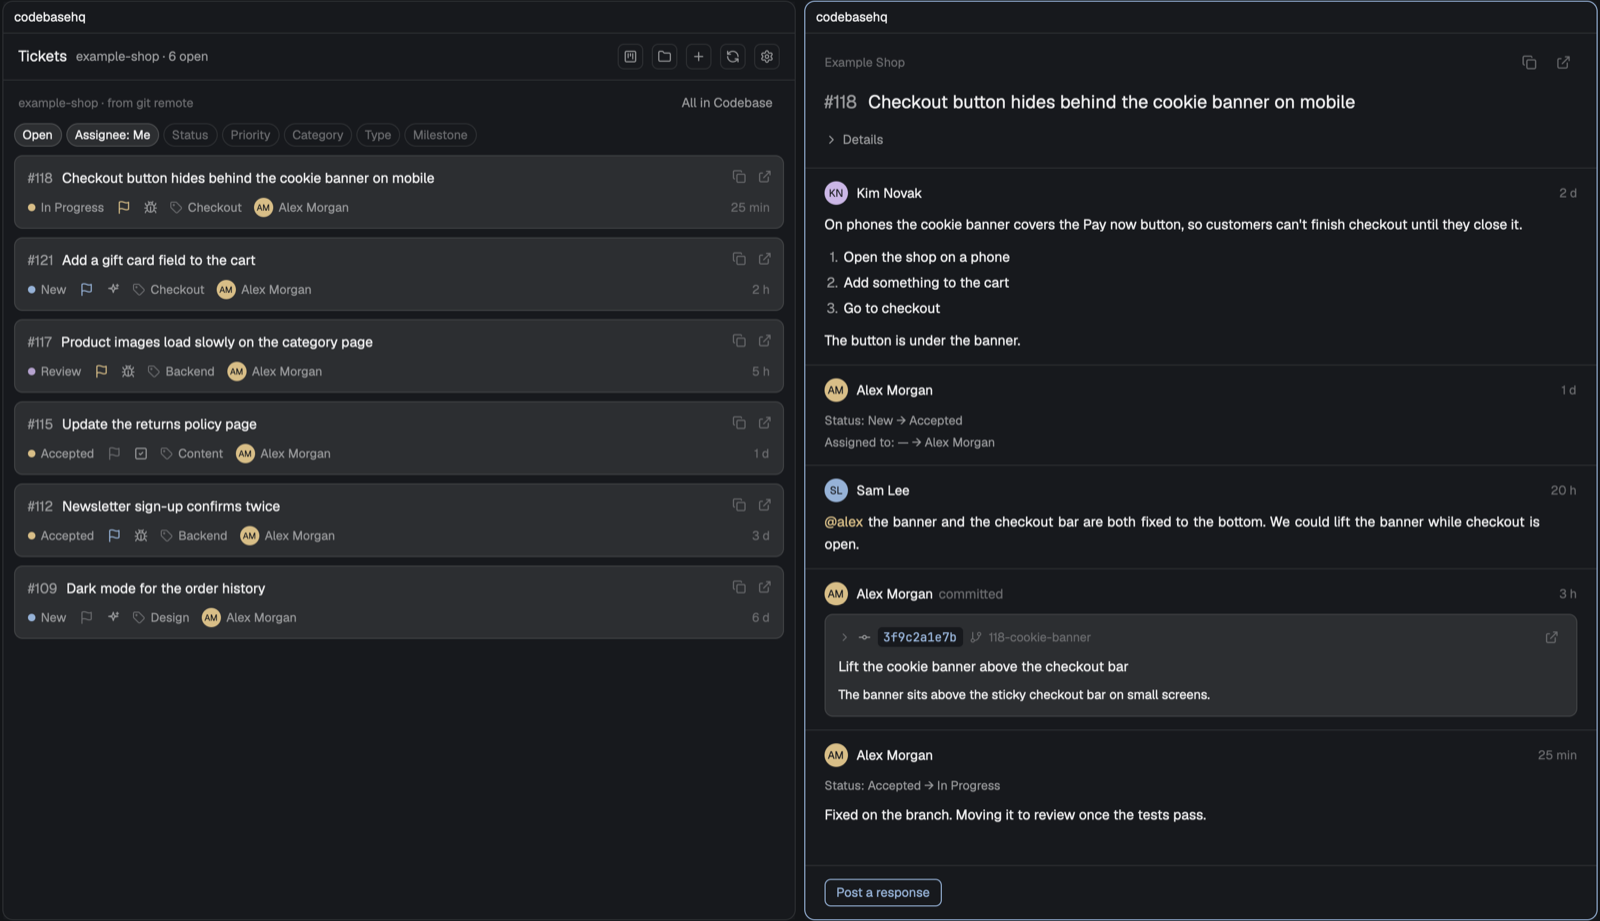
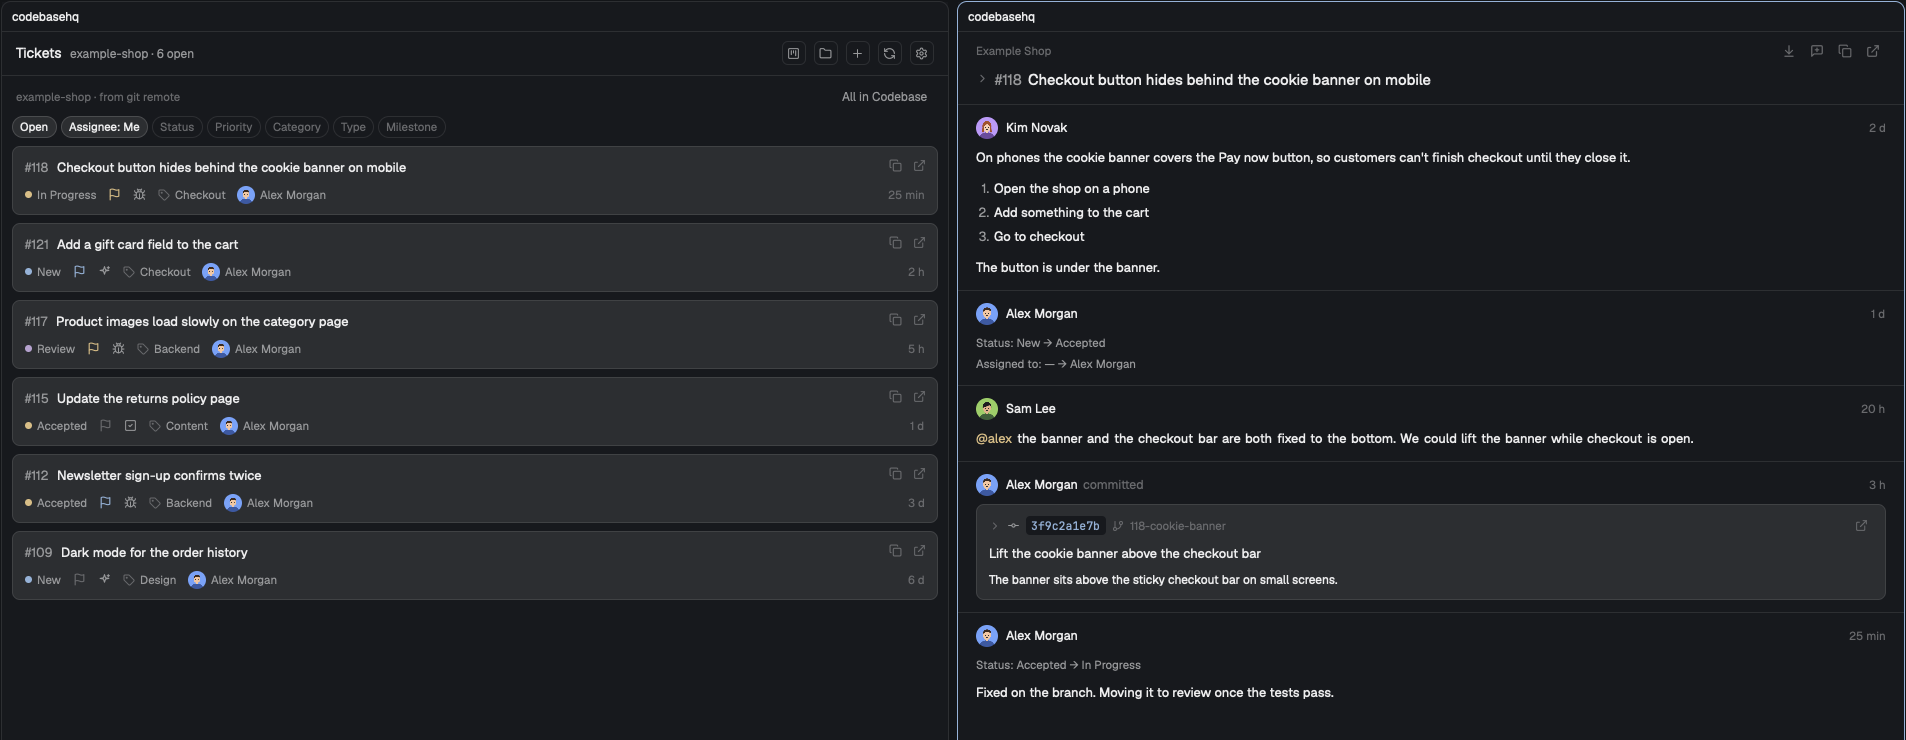
Updates the screenshots to the compact ticket header, with mock pictures.
Taken with the same invented shop, people and tickets as before. Some
of the people now have drawn pictures (no real people), so both
pictures and initials show. The demo build that made them is not part
of the repository.

diff --git a/README.md b/README.md
@@ -6,7 +6,7 @@ A [Herdr](https://herdr.dev) mod for [Codebase HQ](https://www.codebasehq.com) t
 
 ![The Kanban board](screenshots/kanban.png)
 
-*The screenshots show mock data: an invented shop, people and tickets.*
+*The screenshots show mock data: an invented shop, people and tickets, and drawn pictures for some of the people.*
 
 - **Project from the git remote.** The focused terminal's repo decides the project
   (`git@codebasehq.com:<account>/<project>/<repo>.git`). The **folder** icon picks another project,
